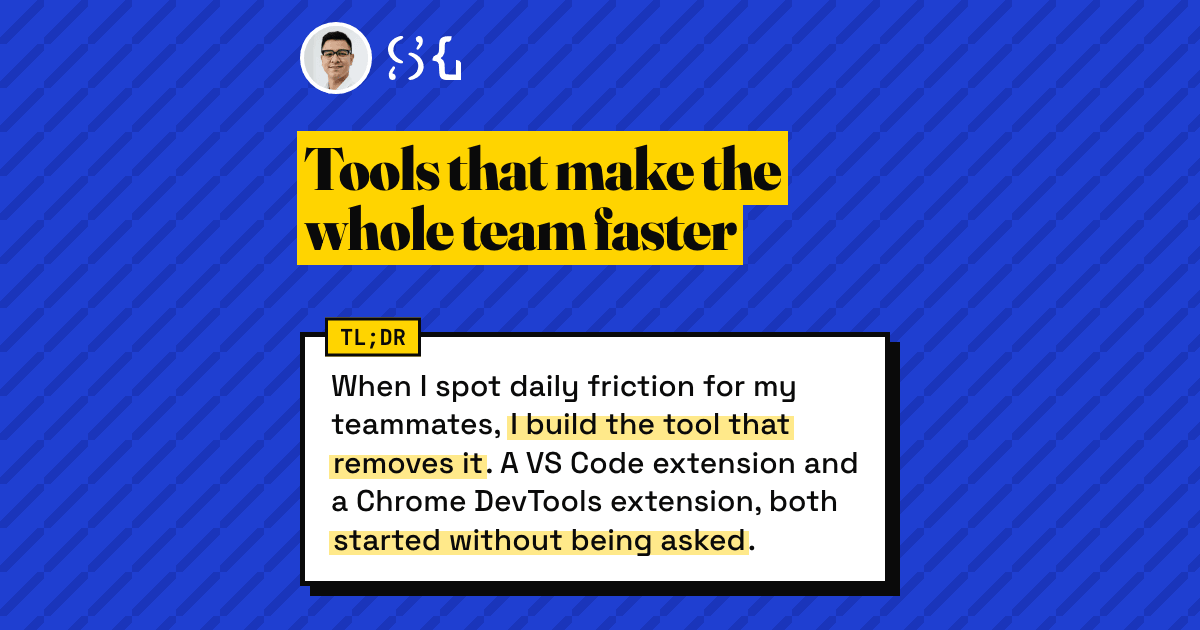
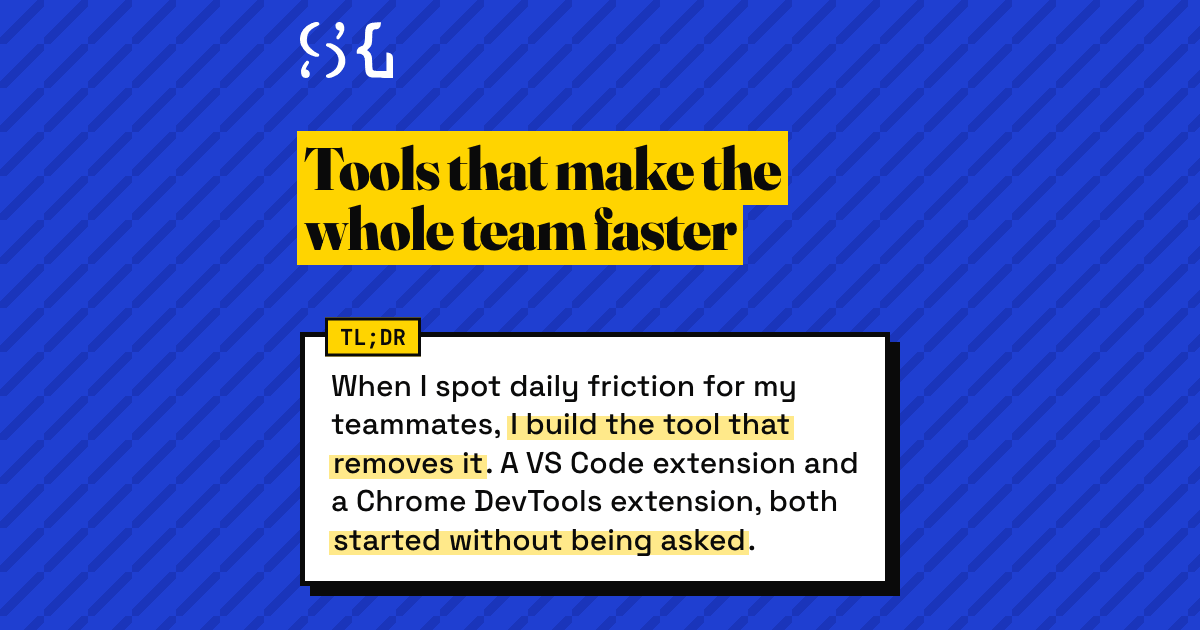
Share images: show the SG mark alone, no photo
Sergei feels brands that take themselves seriously don't put the owner's photo on preview images; the mark is enough and reads more professional. The home image's mark is white so it shows on the blue half.

Changed region(s): [[0.2467, 0.0302, 0.4008, 0.1508]]

diff --git a/tests/social-safe.spec.ts b/tests/social-safe.spec.ts
@@ -75,10 +75,9 @@ for (const { d, s } of CASES) {
 
     const roles = items.map((f) => f.role);
     expect(roles, "title is drawn").toContain("title");
-    // The SG mark and avatar are drawn by every design except the homepage ones (where the title is the name).
+    // The SG mark is drawn by every design except the homepage ones (where the title is the name).
     if (d.startsWith("a") || d === "p1") {
       expect(roles, "SG mark is drawn").toContain("mark");
-      expect(roles, "avatar is drawn").toContain("avatar");
     }
     // The ticker strip shows exactly the three phrases, whole (they are checked against the safe box below).
     if (d === "hx2" || d === "hx3") expect(roles.filter((r) => r === "ticker"), "ticker phrases").toHaveLength(3);
